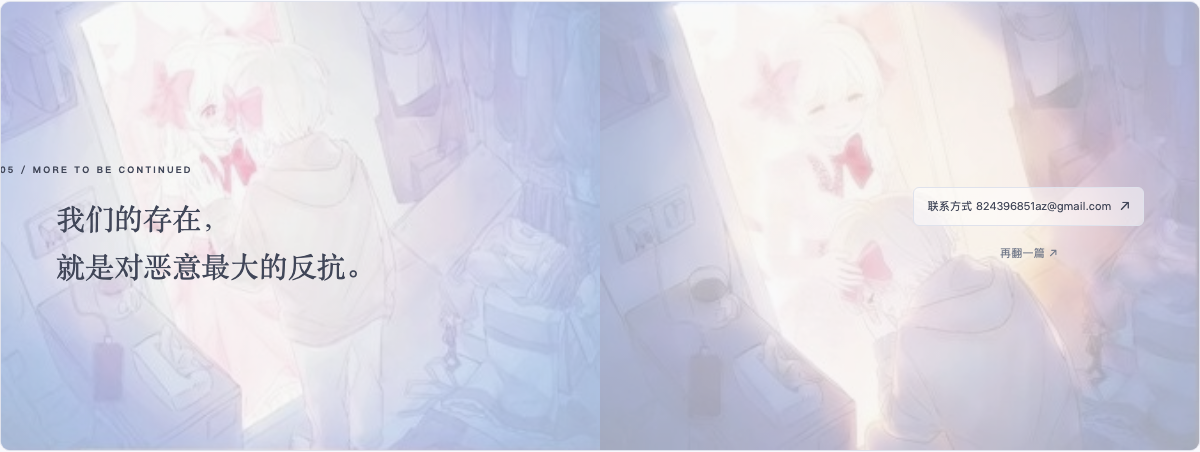
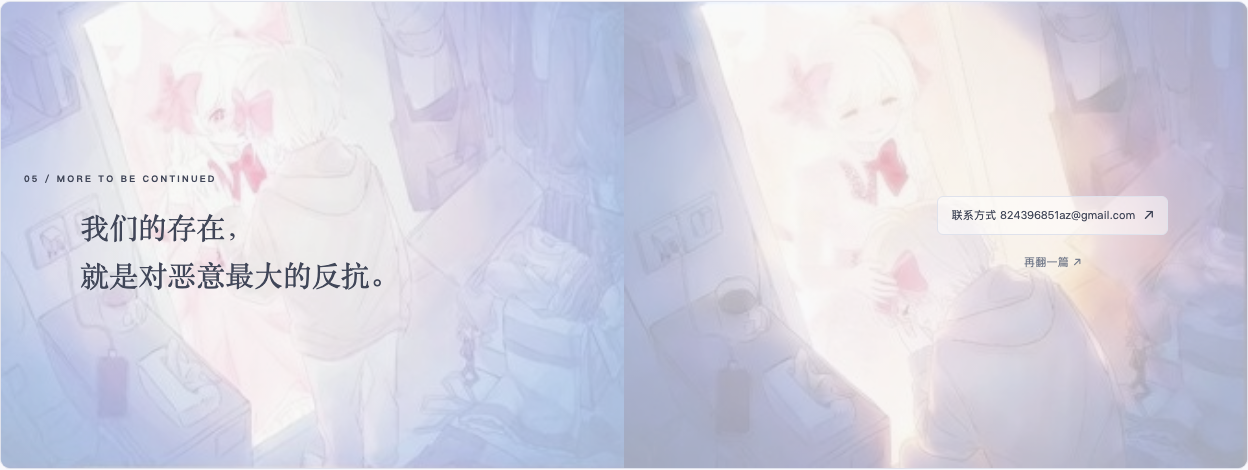
Refine contact artwork spacing and mobile heading position

diff --git a/dist/style.css b/dist/style.css
@@ -322,8 +322,8 @@ details p { font-size:12px; line-height:2; color:var(--muted); margin-bottom:2px
   .resource-note { font-size:9px; }
 }
 
-/* 联系方式与配图 */
-.contact { --contact-inset:55px; padding:50px var(--contact-inset); margin-top:0; margin-bottom:58px; display:flex; justify-content:space-between; align-items:center; gap:30px; border-radius:10px; border:1px solid var(--line); position:relative; overflow:hidden; isolation:isolate; aspect-ratio:676/254; background:linear-gradient(115deg,#dfeaf255,#f3e4ec70); }
+/* 联系方式与配图：桌面图片向正文两侧略微扩展，章节标记留在正文对齐线上。 */
+.contact { --contact-inset:55px; --contact-bleed:24px; width:calc(100% - 64px); max-width:1248px; padding:50px calc(var(--contact-inset) + var(--contact-bleed)); margin-top:0; margin-bottom:58px; display:flex; justify-content:space-between; align-items:center; gap:30px; border-radius:10px; border:1px solid var(--line); position:relative; overflow:hidden; isolation:isolate; aspect-ratio:676/254; background:linear-gradient(115deg,#dfeaf255,#f3e4ec70); }
 .contact .eyebrow { margin-bottom:16px; }
 .contact h2 { font-size:29px; text-wrap:balance; }
 .contact p:not(.eyebrow) { font-size:12px; color:var(--muted); margin-bottom:0; }
@@ -341,12 +341,12 @@ details p { font-size:12px; line-height:2; color:var(--muted); margin-bottom:2px
 .contact-email>span[aria-hidden] { flex:0 0 auto; font-size:14px; line-height:1; }
 .contact-mobile-art { display:none; }
 @media(max-width:1050px) {
-  .contact { --contact-inset:40px; padding:40px; }
+  .contact { --contact-inset:40px; --contact-bleed:16px; width:calc(100% - 32px); padding:40px calc(var(--contact-inset) + var(--contact-bleed)); }
 }
 /* 移动端完整配图置于文字下层；沿用桌面的透明度与柔和遮罩。
    背景铺满屏宽，文字保留 20px 页边距，与前面各节的标题对齐。 */
 @media(max-width:720px) {
-  .contact { width:100%; max-width:none; flex-direction:column; align-items:start; justify-content:center; margin-bottom:35px; aspect-ratio:338/508; min-height:420px; background:var(--paper); padding:36px 20px; gap:24px; border:0; border-radius:0; }
+  .contact { width:100%; max-width:none; flex-direction:column; align-items:start; justify-content:flex-start; margin-bottom:35px; aspect-ratio:338/508; min-height:420px; background:var(--paper); padding:36px 20px; gap:24px; border:0; border-radius:0; }
   .contact h2 { font-size:24px; }
   .contact p:not(.eyebrow) { margin:0; }
   .contact-split { display:none; }

diff --git a/dist/index.html b/dist/index.html
@@ -7,7 +7,7 @@
 <meta name="theme-color" content="#f8f8fc">
 <title>夕雾 · 云间来信</title>
 <link rel="icon" href="assets/favicon.svg?v=79847ec957" type="image/svg+xml">
-<link rel="stylesheet" href="style.css?v=67a9d05c77">
+<link rel="stylesheet" href="style.css?v=17aa2766c1">
 <script defer src="profile.js?v=07e9b81b6d"></script>
 <script defer src="archive.js?v=6fa7c5f08b"></script>
 <script defer src="script.js?v=56fe5a6197"></script>

diff --git a/artifacts/contact-mobile/README.md b/artifacts/contact-mobile/README.md
@@ -2,14 +2,14 @@
 
 首次基于 `008343a` 修复；随后按要求将移动端链接移至左下角、桌面端章节标记左对齐，并统一更新邮箱。原移动端规则关闭了 `::before` 遮罩，并把完整图片排在正常文档流中，因此图片显示原始浓度，标题和链接出现在图后。
 
-本次仅调整联系区样式：移动端图片改为绝对定位的底层背景，沿用桌面端 0.62 的图片透明度、0.45 的主题遮罩和轻微降低饱和度；文字位于遮罩上方。移动端背景铺满屏宽，文字保留 20px 页边距，确保“05 / MORE TO BE CONTINUED”与前面章节标题左边缘对齐。标题、联系方式和“再翻一篇”均位于图片范围内，遮罩不接收点击。联系方式和“再翻一篇”距图片左侧 20px、底部 28px，且不与标题重叠。桌面端“05”消除卡片内边距与边框造成的缩进，与前面章节左边缘对齐。联系邮箱、四语言备用文案及邮件链接均更新为 `824396851az@gmail.com`。原图和文章原文没有改动。
+本次仅调整联系区样式：移动端图片改为绝对定位的底层背景，沿用桌面端 0.62 的图片透明度、0.45 的主题遮罩和轻微降低饱和度；文字位于遮罩上方。移动端背景铺满屏宽，文字保留 20px 页边距，确保“05 / MORE TO BE CONTINUED”与前面章节标题左边缘对齐。章节标记和标题距图片顶部 36px、左侧 20px，位于图片左上方；标题、联系方式和“再翻一篇”均位于图片范围内，遮罩不接收点击。联系方式和“再翻一篇”距图片左侧 20px、底部 28px，且不与标题重叠。桌面端图片比正文每侧扩展 24px（平板每侧 16px），让“05”与前面章节左边缘对齐的同时在图片内保留安全边距。联系邮箱、四语言备用文案及邮件链接均更新为 `824396851az@gmail.com`。原图和文章原文没有改动。
 
 验证：
 
 - 17 个单元测试、构建通过。
 - 15 个 Chromium E2E 全部通过。
 - 额外使用 WebKit 27.2 的触屏移动端模式执行两项真实内容冒烟测试，均通过。
-- 覆盖 320、375、768、1440px、四种语言及深浅主题；检查图片加载、文字边界、叠层、各端标题对齐、移动端链接底部位置、四语言 Gmail 地址、“再翻一篇”可点击，以及横向溢出和控制台/资源错误。
+- 覆盖 320、375、768、1440px、四种语言及深浅主题；检查图片加载、文字边界、叠层、各端标题对齐、桌面图片扩展和标题内边距、移动端标题顶部及链接底部位置、四语言 Gmail 地址、“再翻一篇”可点击，以及横向溢出和控制台/资源错误。
 - 浏览器测试已将旧的“链接在图片下方”断言替换为新的叠放要求。
 
 | 修复前 | 修复后浅色 | 修复后深色 |

diff --git a/README.md b/README.md
@@ -109,7 +109,7 @@ GitHub Actions 在 PR、main push 和手动触发时验证；安装 Chromium 及
 
 资源实测、验证记录与主要截图见 [本轮修复证据](artifacts/verification.md)。`node scripts/evidence.mjs after` 可用本机 Chrome 重新记录本地冷加载数据和截图（先构建）；测量的是本地无压缩 HTTP 服务，gzip 为离线估算，不代表线上 CDN 的传输压缩。
 
-移动端联系区使用完整配图作为底层背景，沿用桌面端的透明度和主题遮罩；标题叠在图上，联系方式和「再翻一篇」固定在图片左下角（左侧 20px、底部 28px）。移动端文字保留 20px 页边距；桌面端「05 / MORE TO BE CONTINUED」也与前面章节标题左边缘对齐。浏览器测试覆盖各语言、主题下的文字边界、对齐与链接可操作性。[联系区前后截图与验证记录](artifacts/contact-mobile/README.md)。
+移动端联系区使用完整配图作为底层背景，沿用桌面端的透明度和主题遮罩；章节标记和标题放在图片左上方（顶部 36px、左侧 20px），联系方式和「再翻一篇」固定在图片左下角（左侧 20px、底部 28px）。移动端文字保留 20px 页边距；桌面端图片稍微向正文两侧扩展，给「05 / MORE TO BE CONTINUED」留出图片内边距，同时与前面章节标题左边缘对齐。浏览器测试覆盖各语言、主题下的文字边界、对齐与链接可操作性。[联系区前后截图与验证记录](artifacts/contact-mobile/README.md)。
 
 当前联系邮箱统一为 `824396851az@gmail.com`，四种语言的显示文案、备用文案和 `mailto` 均使用该地址。
 
